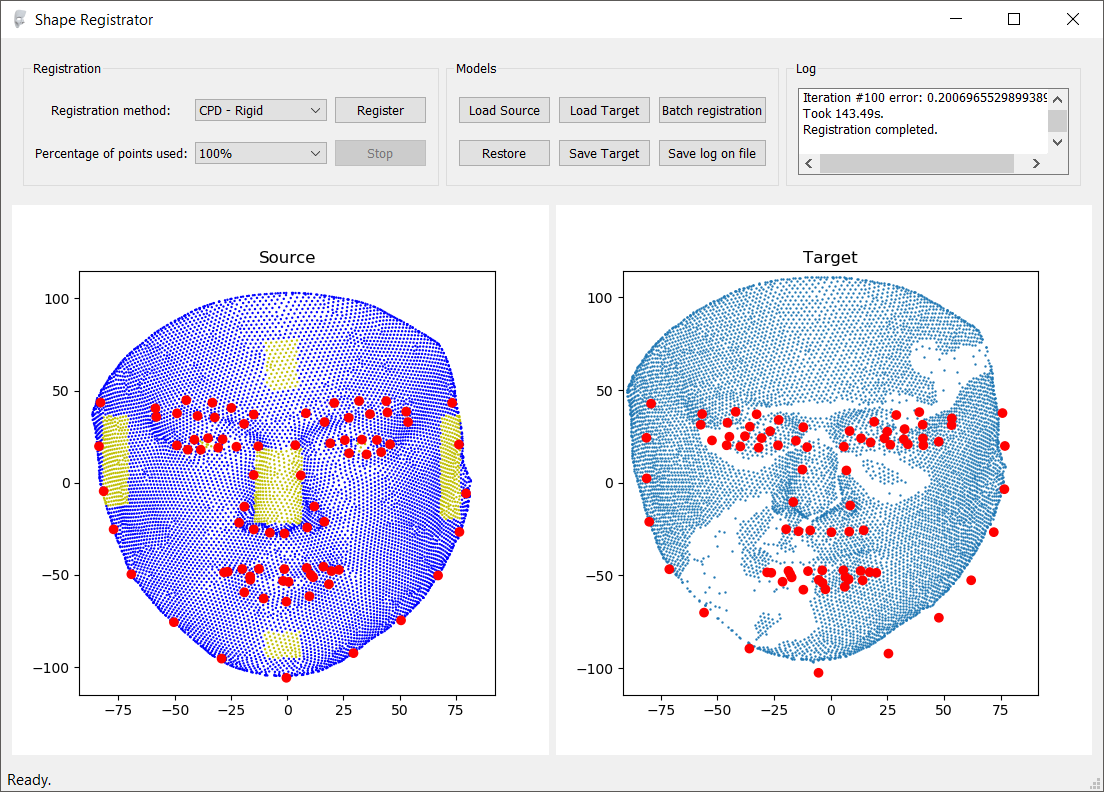
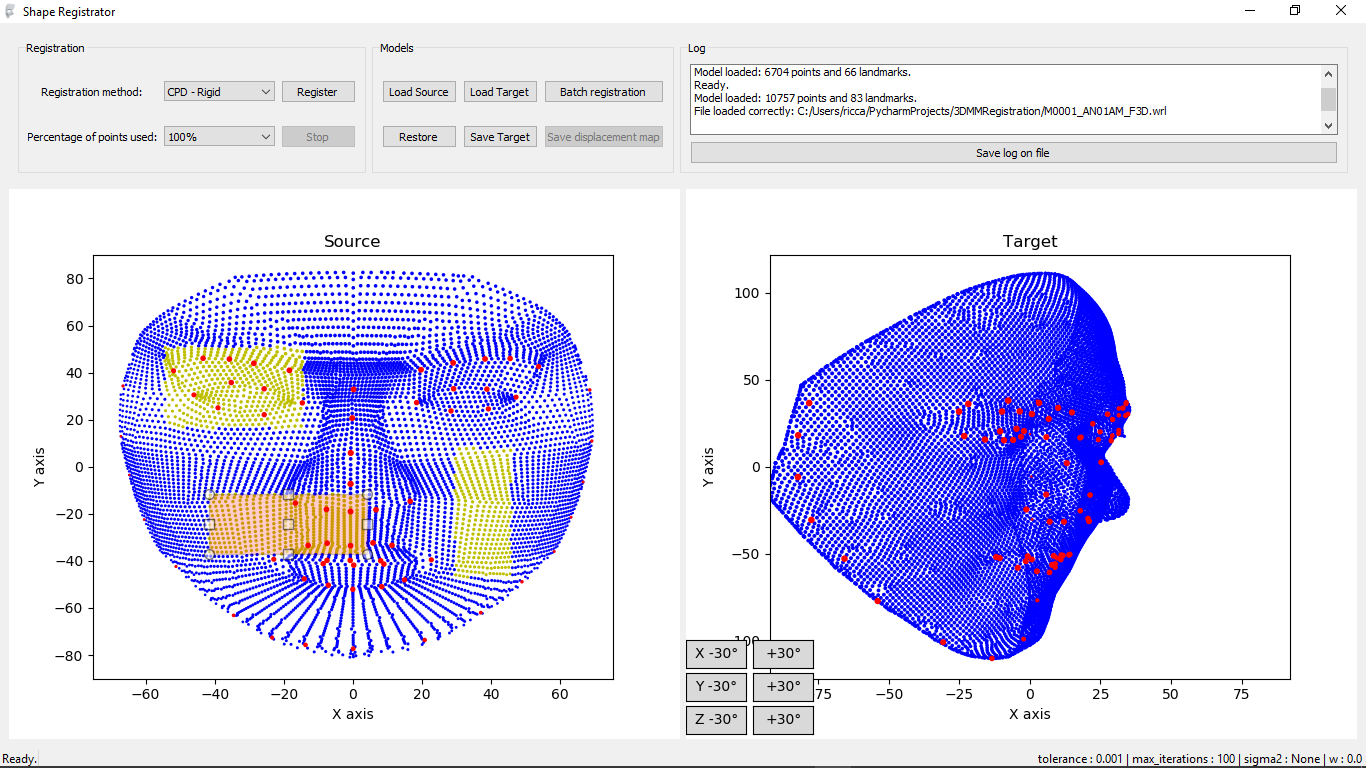
Update README

diff --git a/README.md b/README.md
@@ -6,6 +6,11 @@
 
 Shape Registrator works with 3D model and supports **.mat** (Matlab), **.wrl** (WRML) and **.off** (Open File Format) file formats.
 
+## 2019 Update:
+- Displacement map can now be saved as a Pickle file.
+- Target model can be rotated, in order to provide a good starting point for CPD algorithm.coordinates
+- Source model is now shown in the target section while registrated.
+
 ### Installation
 
 1. Clone repo.
